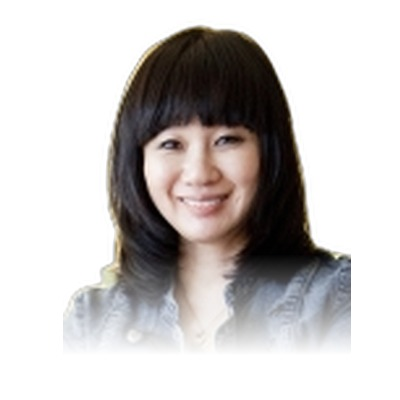
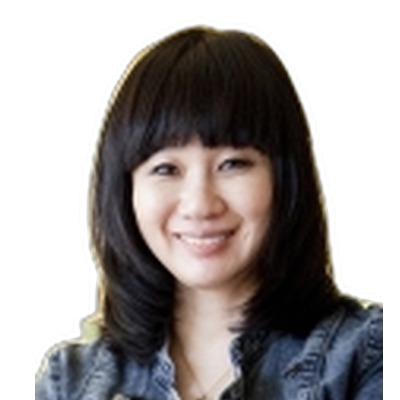
교수 사진 크게 채움, 카드 마우스오버 효과(살짝 위로·옅은 색상) 추가
Claude-Session: https://claude.ai/code/session_01UrhKGjgfZoGpzA1qThRAS9

diff --git a/dept/index.html b/dept/index.html
@@ -237,7 +237,10 @@ input,select,textarea{font:400 15px var(--kr);color:var(--ink);background:#fff;b
 .people{display:grid;grid-template-columns:repeat(2,1fr);gap:12px;margin-top:18px}
 .person{border-radius:16px;padding:20px;background:#fff;border:1px solid var(--line);box-shadow:0 4px 14px rgba(0,0,0,.06);display:grid;grid-template-columns:56px 1fr;gap:14px}
 .avatar{width:56px;height:56px;border-radius:50%;display:grid;place-items:center;font-weight:700;font-size:21px;color:#fff;background:linear-gradient(145deg,#C8374D,#9E1915 45%,#7E120F)}
-.person.t-prof{grid-template-columns:88px 1fr}
+.person.t-prof{grid-template-columns:88px 1fr;transition:transform .25s ease,box-shadow .25s ease,background-color .25s ease,border-color .25s ease}
+.person.t-prof:hover{transform:translateY(-5px);background:#FDF5F7;border-color:#EBC9D2;box-shadow:0 12px 26px rgba(158,25,21,.13)}
+.person.t-prof .avatar{transition:transform .25s ease,box-shadow .25s ease}
+.person.t-prof:hover .avatar{transform:scale(1.06);box-shadow:0 6px 16px rgba(158,25,21,.22)}
 .person.t-prof .avatar{width:88px;height:88px;overflow:hidden;background:#fff;border:1px solid var(--line2);box-shadow:0 3px 10px rgba(0,0,0,.10)}
 .person.t-prof .avatar img,.person.t-prof .avatar svg{width:100%;height:100%;display:block}
 .person.t-prof .avatar img{object-fit:cover;object-position:center}
